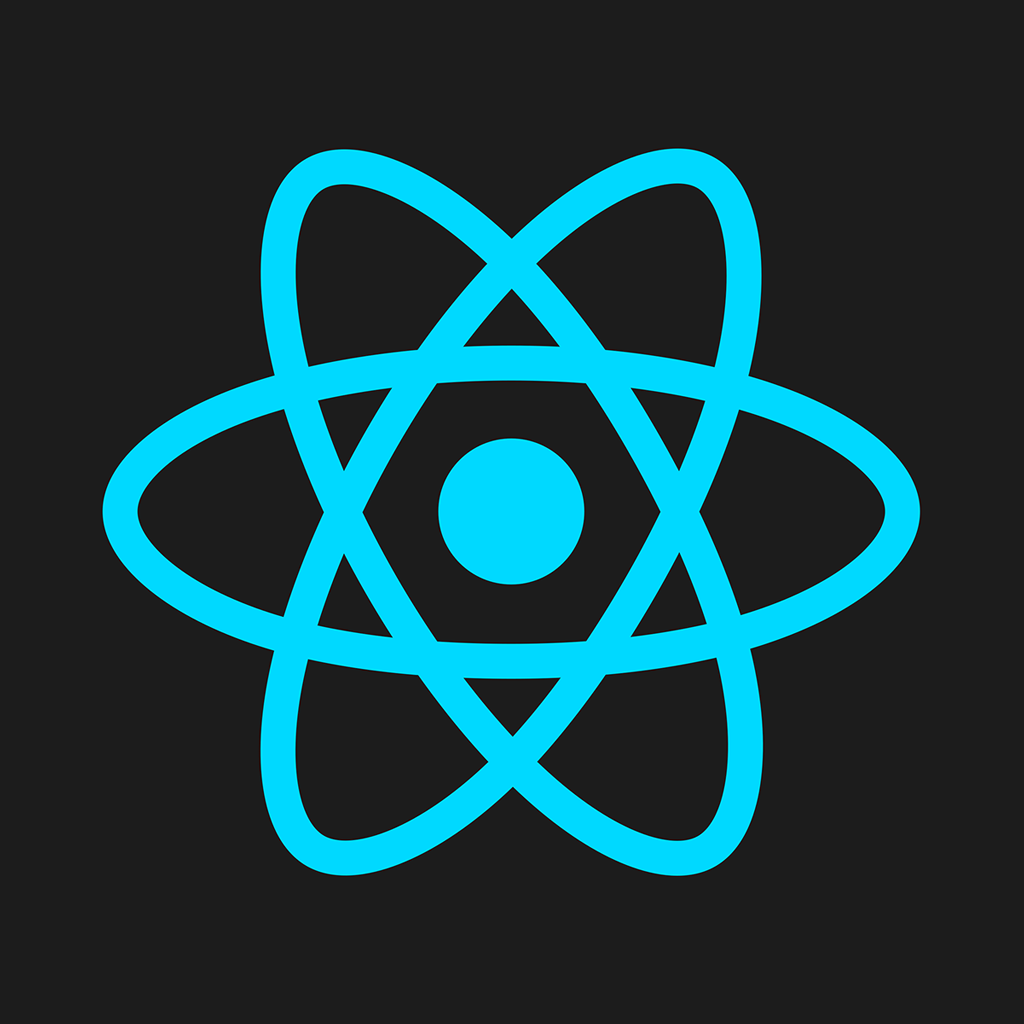
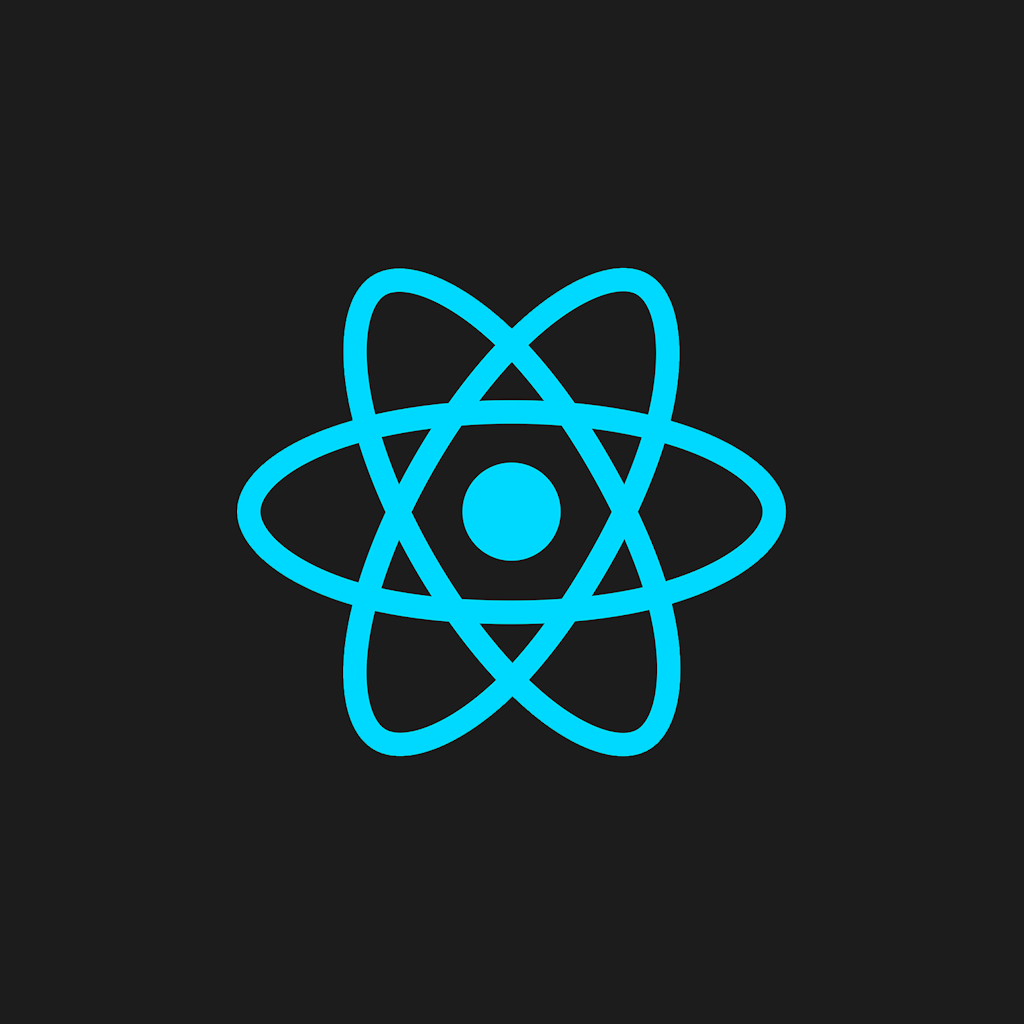
Melhorias.

Changed region(s): [[0.0938, 0.125, 0.9062, 0.875]]

diff --git a/src/navigation/routes/index.tsx b/src/navigation/routes/index.tsx
@@ -4,8 +4,6 @@ import { StatusBar, View } from "react-native";
 import { Image, Text, makeStyles, useTheme } from "@rneui/themed";
 import DrawerRoutes from "./drawer.routes";
 
-const image = { uri: 'https://legacy.reactjs.org/logo-og.png' };
-
 export default function Routes() {
     const { theme } = useTheme();
     const styles = useStyles();
@@ -17,7 +15,7 @@ export default function Routes() {
             <StatusBar barStyle="light-content" backgroundColor={theme.colors.primary} />
             <View style={{ flexDirection: 'row', backgroundColor: theme.colors.primary, alignItems: 'center', justifyContent: 'center', padding: 3 }}>
                 <View style={{ flex: 1, flexDirection: 'row', alignItems: 'center', justifyContent: 'center' }}>
-                    <Image source={image} style={{ width: 40, height: 40, marginRight: 10 }} />
+                    <Image source={require("../../assets/icon.png")} style={{ width: 40, height: 40, marginRight: 10 }} />
                     <Text h4 style={{ color: theme.colors.foreground }}>Aplicação</Text>
                 </View>
                 <DrawerToggleButton tintColor={theme.colors.foreground} />

diff --git a/src/navigation/routes/stack.routes.tsx b/src/navigation/routes/stack.routes.tsx
@@ -21,7 +21,7 @@ export default function StackRoutes() {
         }}>
             <Stack.Screen name="Home" component={Home} options={{ title: "Home" }} />
             <Stack.Screen name="PostsList" component={PostsList} options={{ title: "Publicações" }} />
-            <Stack.Screen name="PostsDetails" component={PostsDetails} options={{ title: "Publicações" }} />
+            <Stack.Screen name="PostsDetails" component={PostsDetails} options={{ title: "Publicações - Detalhes" }} />
             <Stack.Screen name="Login" component={Login} options={{ title: "Login" }} />
         </Stack.Navigator>
     )
